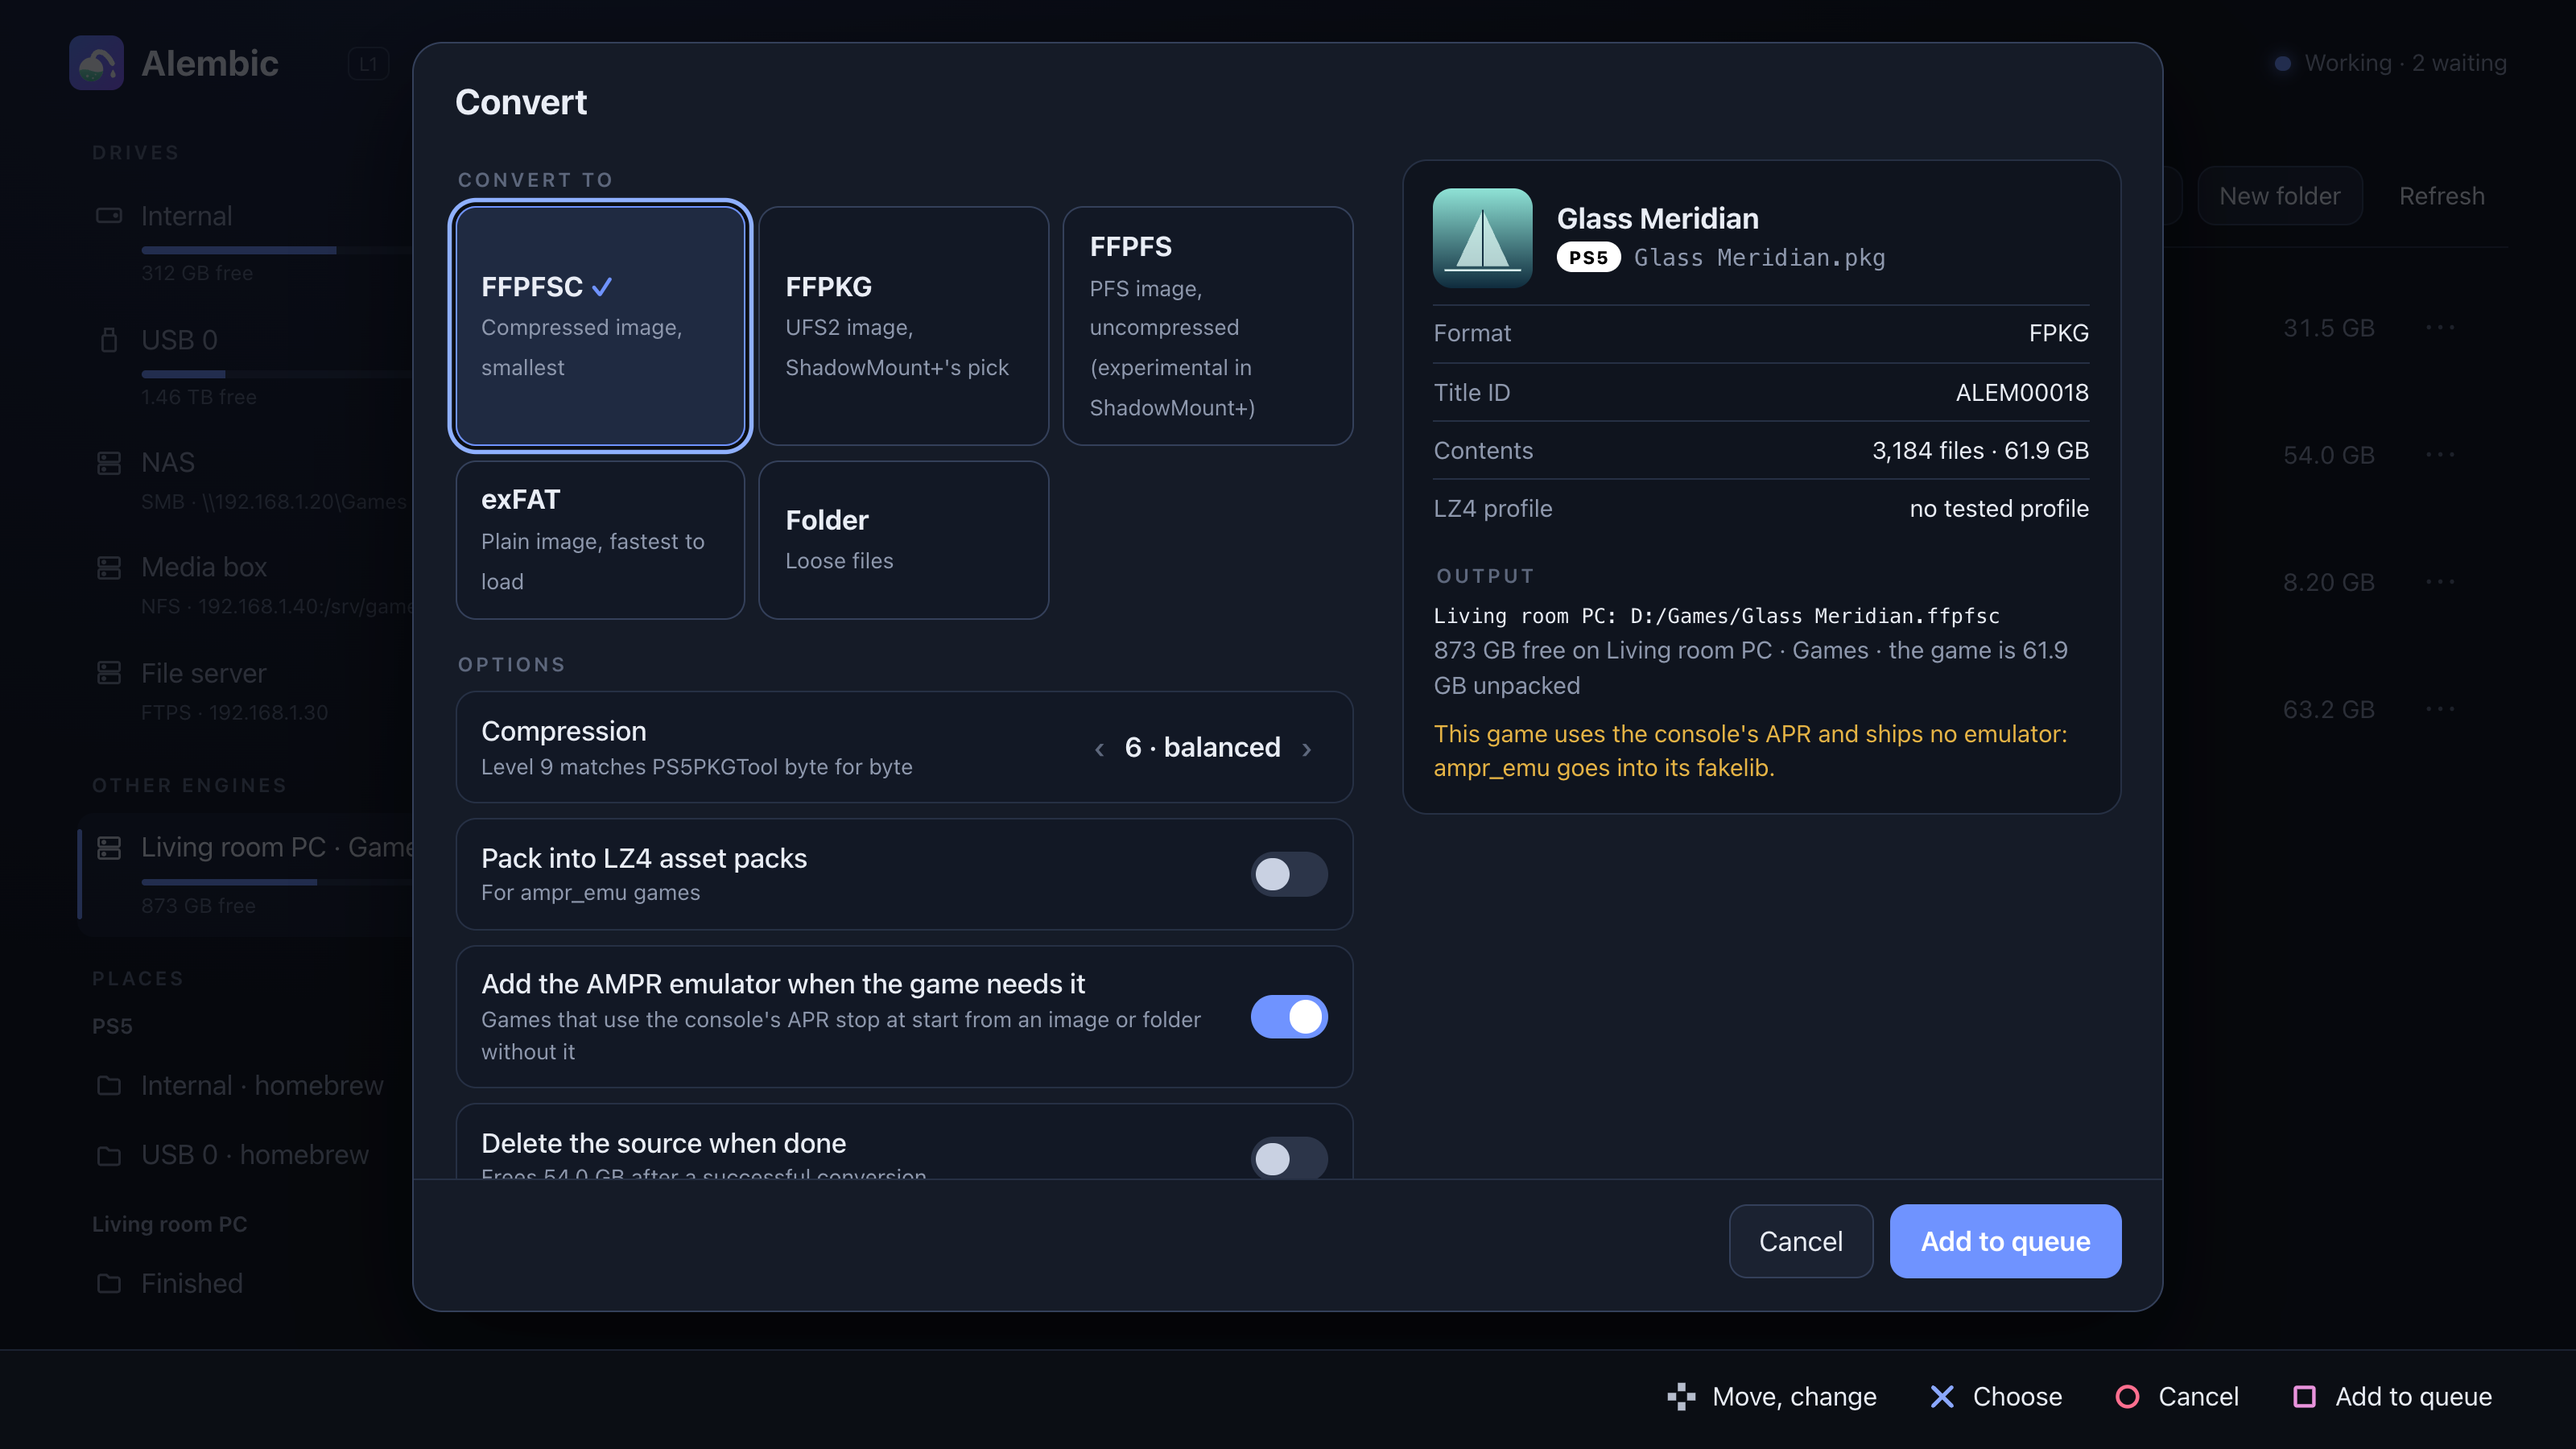
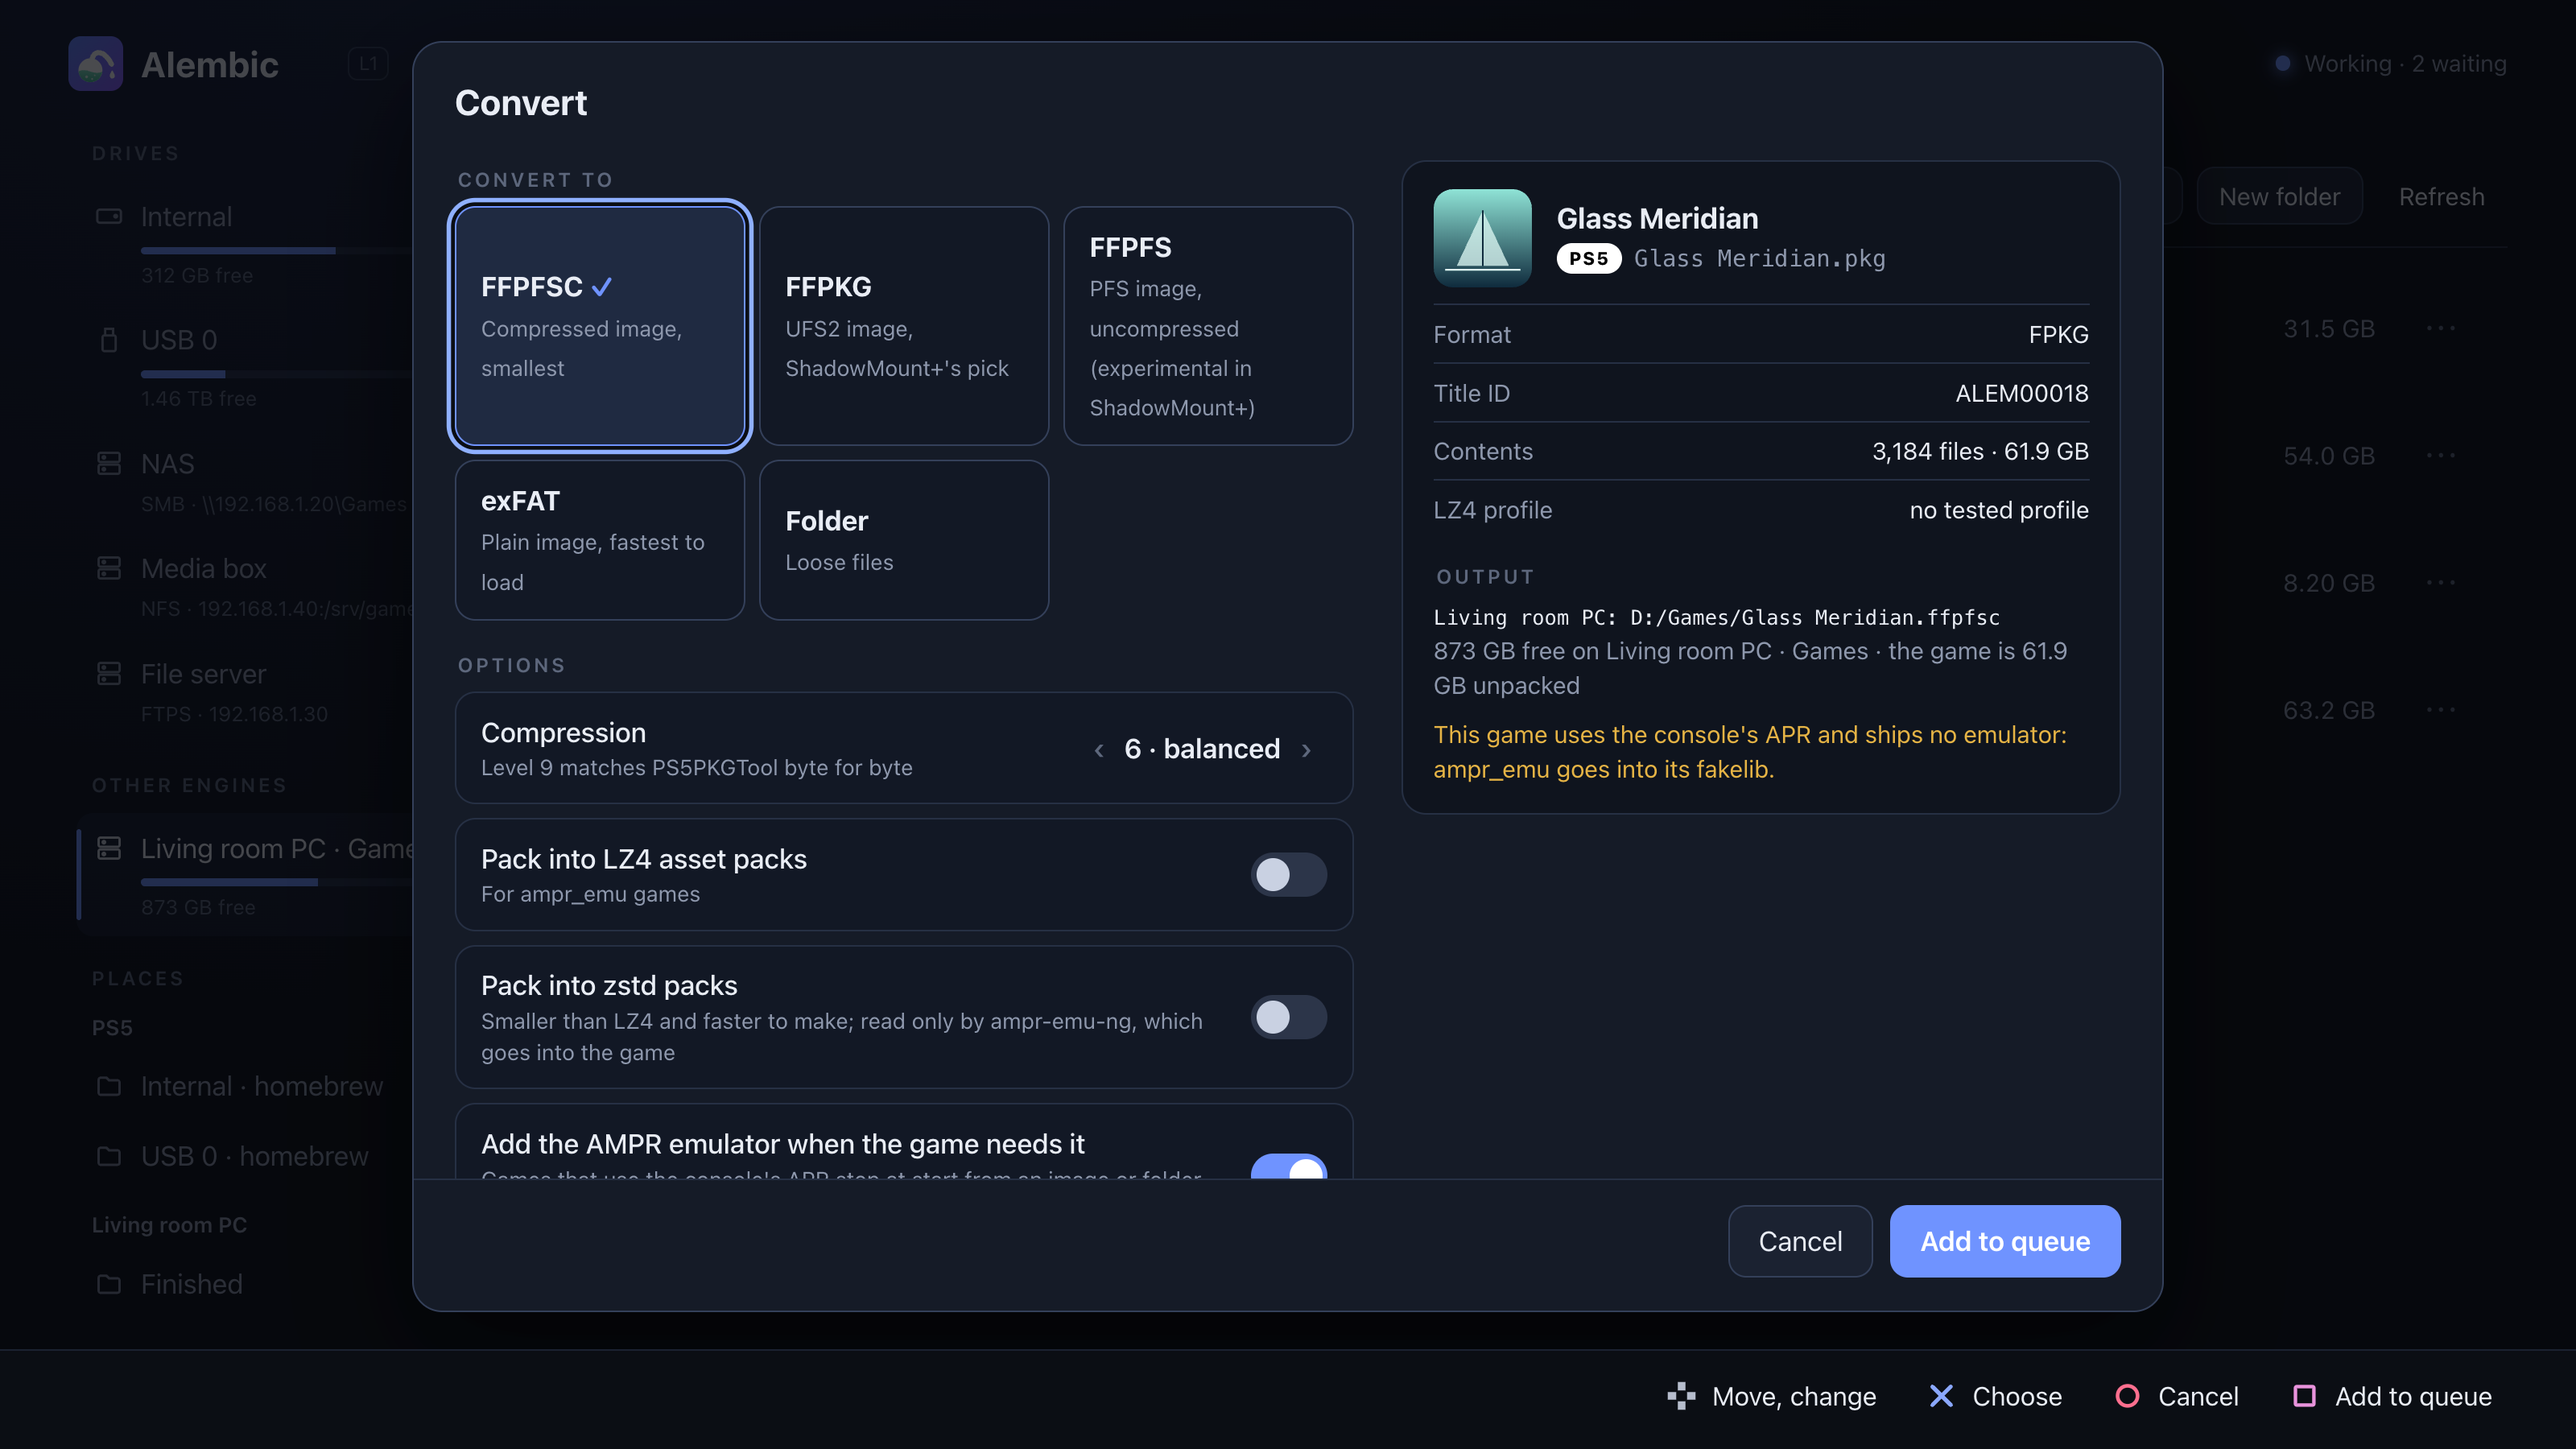
README for 0.5.0: zstd packs tried on a PS5, switching emulator and packs, tags, Hide
Screenshots remade: the stand-in engine gives games LZ4/ZSTD tags and the
PC a zstd job.

diff --git a/README.md b/README.md
@@ -24,7 +24,9 @@ debug licence, so no lock on the title); a paused
 conversion carries on after the engine is updated; the engine updates
 itself from a release (loaded through Payload Manager); the console app
 starts from ShadowMount+, starts and restarts the engine, and drives a
-conversion on a paired PC; a package converted from an SMB share.
+conversion on a paired PC; a package converted from an SMB share; a game
+in zstd packs (a 160 GB package packed at level 5 by a PC engine into a
+96 GB exFAT written to the console) starts with ampr-emu-ng.
 PS4 games converted from their packages start from images through
 ShadowMount+ 1.7beta8 (it shows "Trophy registration failed" for them: a
 ShadowMount+ issue, [#97](https://github.com/drakmor/ShadowMountPlus/issues/97)).
@@ -91,11 +93,16 @@ and the app mark each game with a **PS5** (white) or **PS4** (black) pill.
   LZ4 and faster to make (a 26 GiB set of game files became 11.1 GiB in
   33 s on a Mac, against 17.5 GiB in 77 s for LZ4). The game gets
   ampr-emu-ng's `libSceAmpr.sprx` (from Components); turn off ShadowMount+'s
-  "update emulators" so it isn't swapped for one that can't read them. Not
-  yet tried on a console.
+  "update emulators" so it isn't swapped for one that can't read them.
+  Levels 1, 5 (default) and 19. Tried on a PS5. A packed game can switch
+  between LZ4 and zstd packs in Convert ("Switch to zstd packs"), the old
+  packs decoded straight into the new ones.
 - **AMPR emulator:** games that use the console's APR file reader need
-  ampr_emu's `libSceAmpr.sprx` to start from an image or folder. Alembic
-  adds it when converting, or to a game you already have.
+  an emulator's `libSceAmpr.sprx` to start from an image or folder:
+  drakmor's ampr_emu or quer3q's ampr-emu-ng (Components says which is in
+  use). Alembic adds it when converting, or to a game you already have;
+  on a game that has one, "Add the AMPR emulator" offers to switch it to
+  the other.
 - **Fast:** compression and package decoding use every core; AES, CRC32C
   and SHA-256 use the CPU's own instructions where it has them; zlib level 6
   by default (level 9 for exact PS5PKGTool output).
@@ -142,7 +149,7 @@ GitHub release first, checked against `SHA256SUMS`).
    from a checkpoint), reorder, cancel. You get a notification when one
    finishes.
 
-![The Convert dialog: target formats, compression level, the AMPR emulator switch, and the output path on a paired PC](docs/screenshots/convert.png)
+![The Convert dialog: target formats, compression level, the LZ4 and zstd pack switches, the AMPR emulator switch, and the output path on a paired PC](docs/screenshots/convert.png)
 
 ![The queue: a running conversion with speed and time left, a paused one that continues from its checkpoint, a copy to a NAS share, and a job running on the paired PC](docs/screenshots/queue.png)
 
@@ -173,6 +180,10 @@ Also on the page:
   out), Install, Add the AMPR emulator, Hide from or Show to ShadowMount+,
   Rename with a format (old → new shown first), Send to another engine,
   Copy, Move and Delete; each action takes the files it applies to.
+- **Packs and hiding** (from 0.5.0): games in asset packs carry an LZ4 or
+  ZSTD tag after their format. **Hide** / **Unhide** (renaming to `.name`
+  and back) work on any file or folder, packages included; images keep
+  Hide from / Show to ShadowMount+, which also rescan.
 - **Network servers** (Settings, from 0.3.3): games on a PC or NAS can be
   converted without copying them to the console first, over
   - **SMB** (Windows shared folders, most NAS boxes): SMB 2 and 3 with
